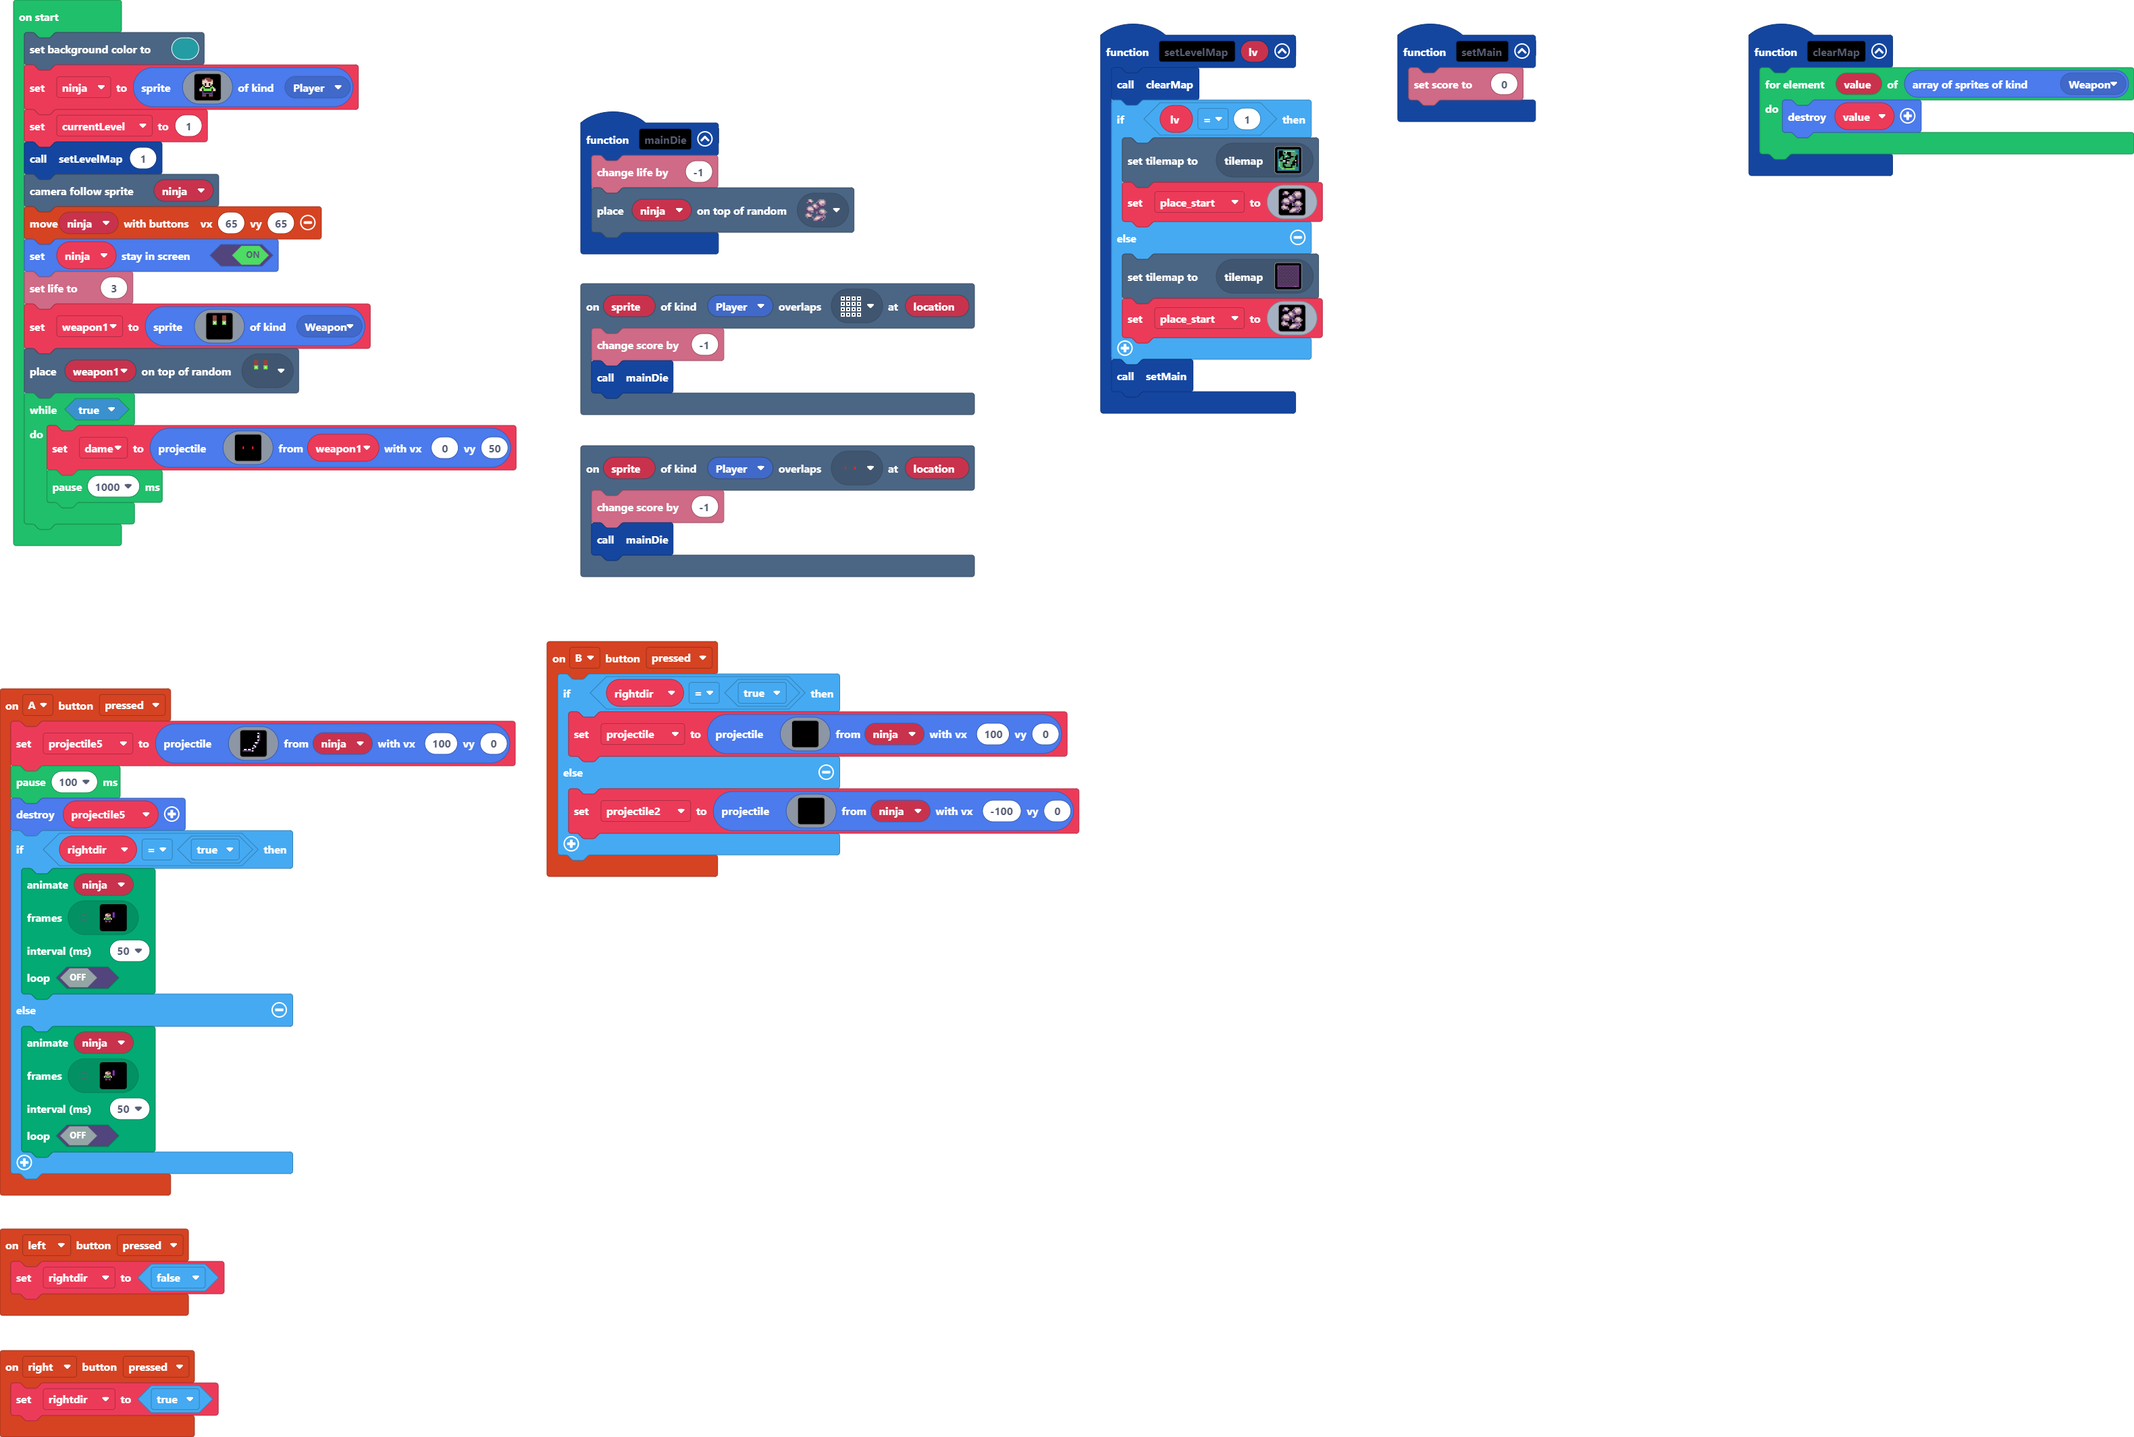
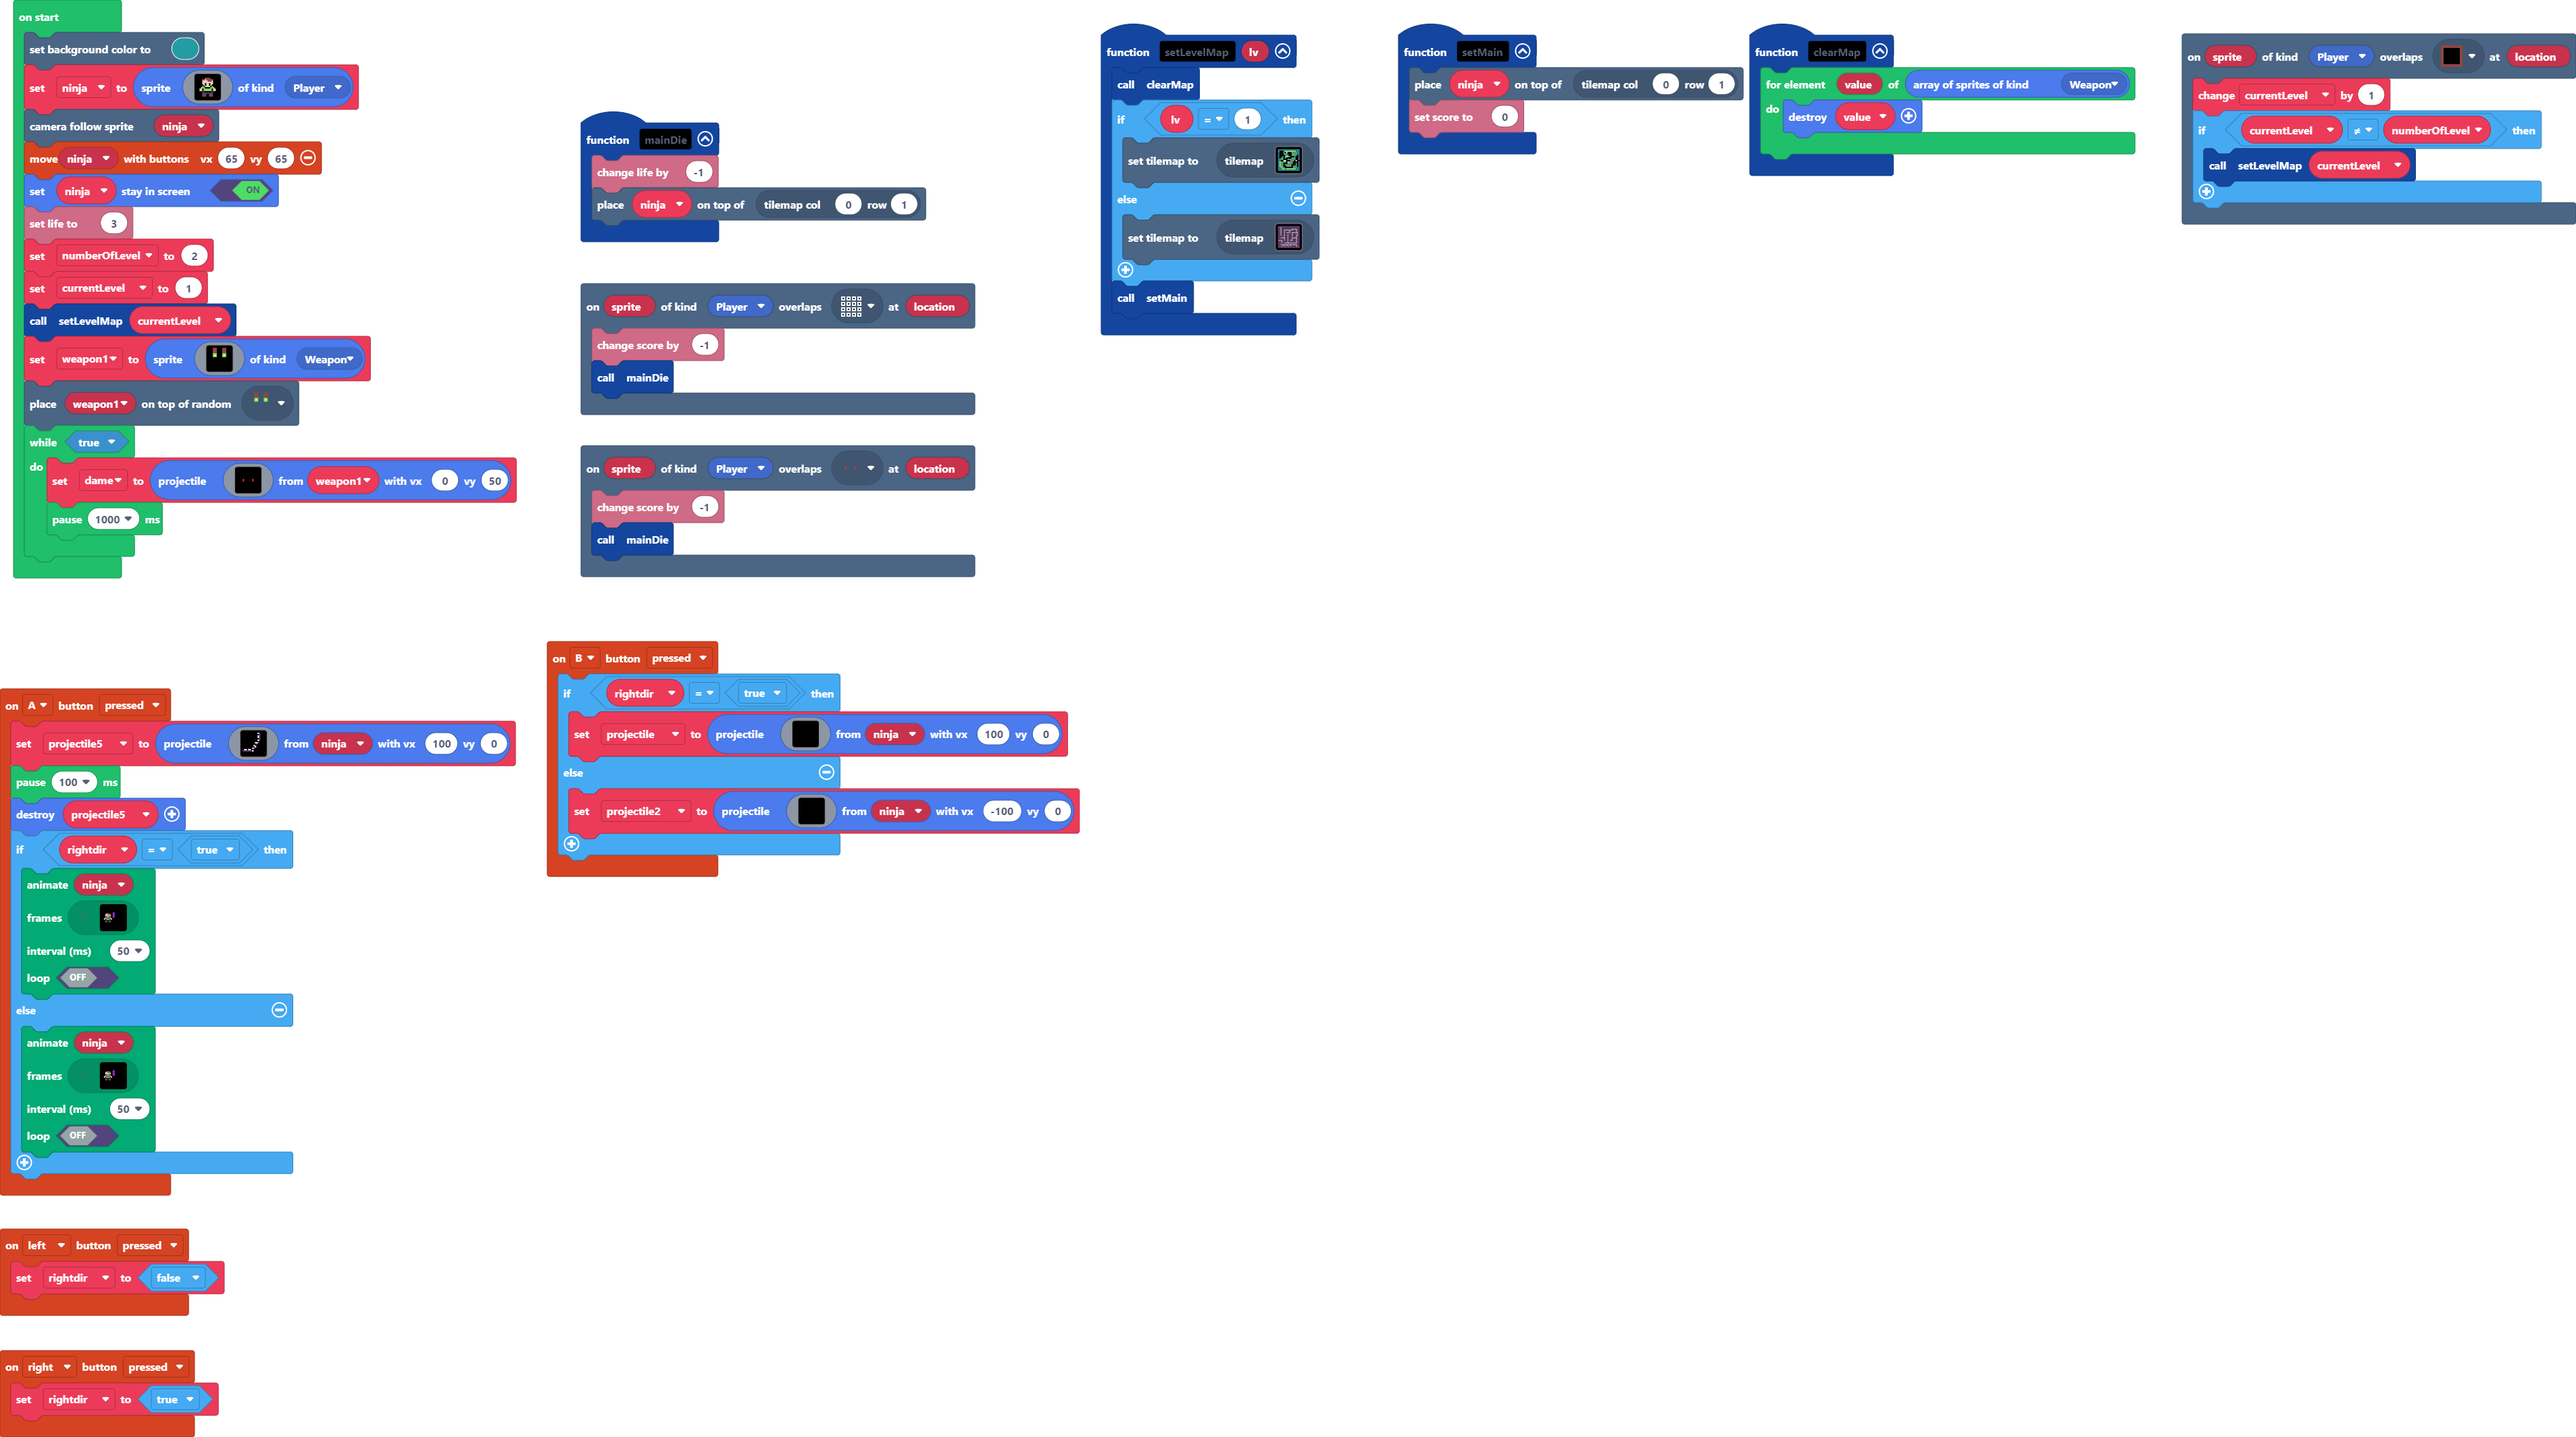
Update main.blocks, main.ts, tilemap.g.jres, tilemap.g.ts

Changed region(s): [[0.0, 0.0, 1.0, 0.4032], [0.0, 0.4342, 0.5272, 1.0], [0.3722, 0.3722, 0.4652, 0.4032]]

diff --git a/tilemap.g.ts b/tilemap.g.ts
@@ -10,28 +10,13 @@ namespace myTiles {
     export const tile3 = image.ofBuffer(hex``);
     //% fixedInstance jres blockIdentity=images._tile
     export const tile4 = image.ofBuffer(hex``);
+    //% fixedInstance jres blockIdentity=images._tile
+    export const tile5 = image.ofBuffer(hex``);
+    //% fixedInstance jres blockIdentity=images._tile
+    export const tile6 = image.ofBuffer(hex``);
 
     helpers._registerFactory("tilemap", function(name: string) {
         switch(helpers.stringTrim(name)) {
-            case "map-demo":
[1 lines of base64/hex data omitted]
-2 2 2 2 2 2 2 2 2 2 2 2 2 2 2 2 
-. . . . 2 2 2 2 2 2 2 2 2 2 2 2 
-2 . . . 2 . . . . . 2 2 2 2 2 2 
-2 . . . 2 2 2 . . . 2 2 2 2 2 2 
-2 . . . . 2 2 2 . . 2 2 2 2 . 2 
-2 . . 2 . 2 . 2 2 . . . 2 . . 2 
-2 . 2 2 . 2 . . . . 2 2 2 . . 2 
-2 2 2 2 . . . 2 2 2 2 2 2 . . 2 
-2 2 . . . . . . . 2 2 . . . . . 
-2 2 2 2 2 2 . . 2 2 2 . . . . . 
-2 2 2 2 . . . 2 2 2 2 . . 2 . 2 
-2 2 2 2 . 2 2 2 2 2 . . . 2 . 2 
-2 2 2 2 . . 2 2 2 2 . 2 2 2 . 2 
-2 2 2 2 2 . . . . . . . . 2 2 2 
-2 2 2 2 2 2 2 2 2 2 2 2 2 2 2 2 
-2 2 2 2 2 2 2 2 2 2 2 2 2 2 2 2 
-`, [myTiles.transparency16,sprites.castle.tileGrass2,sprites.castle.tileGrass1,sprites.builtin.forestTiles0,sprites.swamp.swampTile1,sprites.swamp.swampTile0,sprites.swamp.swampTile2,sprites.castle.saplingPine,sprites.castle.shrub,sprites.castle.rock0,sprites.castle.rock2,sprites.dungeon.stairLarge,sprites.dungeon.purpleOuterWest2,sprites.builtin.forestTiles1,sprites.builtin.forestTiles3,sprites.builtin.forestTiles2,myTiles.tile1,myTiles.tile2], TileScale.Sixteen);
             case "level2":
             case "level2":return tiles.createTilemap(hex`1000100000000000000000000000000000000000000000000000000000000000000000000000000000000000000000000000000000000000000000000000000000000000000000000000000000000000000000000000000000000000000000000000000000000000000000000000000000000000000000000000000000000000000000000000000000000000000000000000000000000000000000000000000000000000000000000000000000000000000000000000000000000000000000000000000000000000000000000000000000000000000000000000000000000000000000000000000000000000000000000000000000000000000000000000000000000000`, img`
 . . . . . . . . . . . . . . . . 
@@ -70,34 +55,6 @@ namespace myTiles {
 . . . . . . . . . . . . . . . . 
 . . . . . . . . . . . . . . . . 
 `, [myTiles.transparency16], TileScale.Sixteen);
-            case "tilemap1":
[1 lines of base64/hex data omitted]
-2222222222222222222222222
-2.......................2
-........................2
-........................2
-2.......................2
-2.......................2
-2.......................2
-2.......................2
-2.......................2
-2.......................2
-2.......................2
-2.......................2
-2.......................2
-2.......................2
-2.......................2
-2.......................2
-2.......................2
-2.......................2
-2.......................2
-2.......................2
-2.......................2
-2.......................2
-2.......................2
-2.......................2
-22222222222222222222..222
-`, [myTiles.transparency16,sprites.dungeon.darkGroundNorthWest0,sprites.dungeon.purpleOuterNorthWest,sprites.dungeon.purpleOuterNorth0,sprites.dungeon.purpleOuterNorthEast,sprites.dungeon.purpleOuterEast0,sprites.dungeon.purpleOuterSouthWest,sprites.dungeon.purpleOuterSouth0,sprites.dungeon.purpleOuterSouthEast,sprites.dungeon.purpleOuterWest1,sprites.dungeon.purpleOuterWest2,sprites.dungeon.stairWest,sprites.dungeon.stairSouth,sprites.dungeon.purpleOuterSouth2,sprites.dungeon.darkGroundSouthWest0,sprites.dungeon.darkGroundWest,sprites.dungeon.darkGroundNorth,sprites.dungeon.darkGroundNorthEast0,sprites.dungeon.darkGroundSouthEast0,sprites.dungeon.darkGroundSouth,sprites.dungeon.darkGroundEast,sprites.dungeon.darkGroundCenter], TileScale.Sixteen);
             case "level4":
             case "level4":return tiles.createTilemap(hex`1000100000000000000000000000000000000000000000000000000000000000000000000000000000000000000000000000000000000000000000000000000000000000000000000000000000000000000000000000000000000000000000000000000000000000000000000000000000000000000000000000000000000000000000000000000000000000000000000000000000000000000000000000000000000000000000000000000000000000000000000000000000000000000000000000000000000000000000000000000000000000000000000000000000000000000000000000000000000000000000000000000000000000000000000000000000000000`, img`
 . . . . . . . . . . . . . . . . 
@@ -117,6 +74,72 @@ namespace myTiles {
 . . . . . . . . . . . . . . . . 
 . . . . . . . . . . . . . . . . 
 `, [myTiles.transparency16], TileScale.Sixteen);
+            case "level5":
+            case "level5":return tiles.createTilemap(hex`1000100000000000000000000000000000000000000000000000000000000000000000000000000000000000000000000000000000000000000000000000000000000000000000000000000000000000000000000000000000000000000000000000000000000000000000000000000000000000000000000000000000000000000000000000000000000000000000000000000000000000000000000000000000000000000000000000000000000000000000000000000000000000000000000000000000000000000000000000000000000000000000000000000000000000000000000000000000000000000000000000000000000000000000000000000000000000`, img`
+. . . . . . . . . . . . . . . . 
+. . . . . . . . . . . . . . . . 
+. . . . . . . . . . . . . . . . 
+. . . . . . . . . . . . . . . . 
+. . . . . . . . . . . . . . . . 
+. . . . . . . . . . . . . . . . 
+. . . . . . . . . . . . . . . . 
+. . . . . . . . . . . . . . . . 
+. . . . . . . . . . . . . . . . 
+. . . . . . . . . . . . . . . . 
+. . . . . . . . . . . . . . . . 
+. . . . . . . . . . . . . . . . 
+. . . . . . . . . . . . . . . . 
+. . . . . . . . . . . . . . . . 
+. . . . . . . . . . . . . . . . 
+. . . . . . . . . . . . . . . . 
+`, [myTiles.transparency16], TileScale.Sixteen);
+            case "tilemap1":
[1 lines of base64/hex data omitted]
+2222222222222222222222222
+...2....................2
+2..2....................2
+2..2............222222..2
+2..2...2222222222....2..2
+2..2...2.....2.......2..2
+2..2...2.....2.......2..2
+2..2...2..2222..2222222.2
+2..2...2........2.....2.2
+2..2...2...2....2.....2.2
+2..2...2...2....2....22.2
+2......2...2....2....2..2
+2......2...2.........2..2
+2..22222...2....222222..2
+2......2...2....2....2..2
+2......2...2....2....2..2
+22222..2...2..222....2..2
+2...2......2.........2..2
+2...2......2.........2..2
+2...2..222222222222222..2
+2.......................2
+2..2222222222222222222..2
+2....................2..2
+2....................2..2
+22222222222222222222.2222
+`, [myTiles.transparency16,sprites.dungeon.darkGroundNorthWest0,sprites.dungeon.purpleOuterNorthWest,sprites.dungeon.purpleOuterNorth0,sprites.dungeon.purpleOuterNorthEast,sprites.dungeon.purpleOuterEast0,sprites.dungeon.purpleOuterSouthWest,sprites.dungeon.purpleOuterSouth0,sprites.dungeon.purpleOuterSouthEast,sprites.dungeon.purpleOuterWest1,sprites.dungeon.purpleOuterWest2,sprites.dungeon.stairWest,sprites.dungeon.purpleOuterSouth2,sprites.dungeon.darkGroundSouthWest0,sprites.dungeon.darkGroundWest,sprites.dungeon.darkGroundNorth,sprites.dungeon.darkGroundNorthEast0,sprites.dungeon.darkGroundSouthEast0,sprites.dungeon.darkGroundSouth,sprites.dungeon.darkGroundEast,sprites.dungeon.darkGroundCenter,myTiles.tile1,myTiles.tile5,sprites.dungeon.purpleOuterSouth1,sprites.dungeon.floorLight0,sprites.dungeon.darkGroundSouthWest1], TileScale.Sixteen);
+            case "map-demo":
[1 lines of base64/hex data omitted]
+2 2 2 2 2 2 2 2 2 2 2 2 2 2 2 2 
+. . . . 2 2 2 2 2 2 2 2 2 2 2 2 
+2 . . . 2 . . . . . 2 2 2 2 2 2 
+2 . . . 2 2 2 . . . 2 2 2 2 2 2 
+2 . . . . 2 2 2 . . 2 2 2 2 . 2 
+2 . . 2 . 2 . 2 2 . . . 2 . . 2 
+2 . 2 2 . 2 . . . . 2 2 2 . . 2 
+2 2 2 2 . . . 2 2 2 2 2 2 . . 2 
+2 2 . . . . . . . 2 2 . . . . . 
+2 2 2 2 2 2 . . 2 2 2 . . . . 2 
+2 2 2 2 . . . 2 2 2 2 . . 2 . 2 
+2 2 2 2 . 2 2 2 2 2 . . . 2 . 2 
+2 2 2 2 . . 2 2 2 2 . 2 2 2 . 2 
+2 2 2 2 2 . . . . . . . . 2 2 2 
+2 2 2 2 2 2 2 2 2 2 2 2 2 2 2 2 
+2 2 2 2 2 2 2 2 2 2 2 2 2 2 2 2 
+`, [myTiles.transparency16,sprites.castle.tileGrass2,sprites.castle.tileGrass1,sprites.builtin.forestTiles0,sprites.swamp.swampTile1,sprites.swamp.swampTile0,sprites.swamp.swampTile2,sprites.castle.saplingPine,sprites.castle.shrub,sprites.castle.rock0,sprites.castle.rock2,sprites.dungeon.stairLarge,sprites.dungeon.purpleOuterWest2,sprites.builtin.forestTiles1,sprites.builtin.forestTiles3,sprites.builtin.forestTiles2,myTiles.tile1,myTiles.tile2,myTiles.tile5], TileScale.Sixteen);
         }
         return null;
     })
@@ -132,6 +155,10 @@ namespace myTiles {
             case "tile3":return tile3;
             case "myTile":
             case "tile4":return tile4;
+            case "myTile0":
+            case "tile5":return tile5;
+            case "trap0":
+            case "tile6":return tile6;
         }
         return null;
     })

diff --git a/main.ts b/main.ts
@@ -3,6 +3,12 @@ namespace SpriteKind {
     export const Weapon = SpriteKind.create()
     export const Start = SpriteKind.create()
 }
+scene.onOverlapTile(SpriteKind.Player, assets.tile`myTile0`, function (sprite, location) {
+    currentLevel += 1
+    if (currentLevel != numberOfLevel) {
+        setLevelMap(currentLevel)
+    }
+})
 controller.B.onEvent(ControllerButtonEvent.Pressed, function () {
     if (rightdir == true) {
         projectile = sprites.createProjectileFromSprite(assets.image`phi_tieu`, ninja, 100, 0)
@@ -51,11 +57,12 @@ controller.left.onEvent(ControllerButtonEvent.Pressed, function () {
     rightdir = false
 })
 function setMain () {
+    tiles.placeOnTile(ninja, tiles.getTileLocation(0, 1))
     info.setScore(0)
 }
 function mainDie () {
     info.changeLifeBy(-1)
-    tiles.placeOnRandomTile(ninja, sprites.castle.rock2)
+    tiles.placeOnTile(ninja, tiles.getTileLocation(0, 1))
 }
 controller.right.onEvent(ControllerButtonEvent.Pressed, function () {
     rightdir = true
@@ -64,44 +71,8 @@ function setLevelMap (lv: number) {
     clearMap()
     if (lv == 1) {
         tiles.setCurrentTilemap(tilemap`map-demo`)
-        place_start = img`
-            . . b d b . . . . . b b b b . . 
-            . c b d d b . . . b b d d d b . 
-            . b c c b . . . b c d d d d b . 
-            . . . . . . b b c c b d b b b . 
-            . . . . . b d d b c c b b b c . 
-            . . b b b c d d b b c c c c . . 
-            . b d d d b c b b c . . . . . . 
-            c b d d d d c c c c . b b b . . 
-            c c b b b b c c c . b d d d b . 
-            . c c c b b . . b c b b d d b b 
-            . b b . . . . . b c c b b b b . 
-            b d d b b . . . . . c c c b . . 
-            b b d d b c . . b b b b b b b . 
-            . b c c c b . b d d d b b c b . 
-            . . . . . . b d d d b c c b . . 
-            . . . . . . b b b c c c b . . . 
-            `
     } else {
         tiles.setCurrentTilemap(tilemap`tilemap1`)
-        place_start = img`
-            . . b d b . . . . . b b b b . . 
-            . c b d d b . . . b b d d d b . 
-            . b c c b . . . b c d d d d b . 
-            . . . . . . b b c c b d b b b . 
-            . . . . . b d d b c c b b b c . 
-            . . b b b c d d b b c c c c . . 
-            . b d d d b c b b c . . . . . . 
-            c b d d d d c c c c . b b b . . 
-            c c b b b b c c c . b d d d b . 
-            . c c c b b . . b c b b d d b b 
-            . b b . . . . . b c c b b b b . 
-            b d d b b . . . . . c c c b . . 
-            b b d d b c . . b b b b b b b . 
-            . b c c c b . b d d d b b c b . 
-            . . . . . . b d d d b c c b . . 
-            . . . . . . b b b c c c b . . . 
-            `
     }
     setMain()
 }
@@ -118,21 +89,23 @@ function clearMap () {
         value.destroy()
     }
 }
-let place_start: Image = null
 let projectile5: Sprite = null
 let projectile2: Sprite = null
 let projectile: Sprite = null
 let rightdir = false
 let dame: Sprite = null
+let currentLevel = 0
+let numberOfLevel = 0
 let ninja: Sprite = null
 scene.setBackgroundColor(6)
 ninja = sprites.create(assets.image`myImage1`, SpriteKind.Player)
-let currentLevel = 1
-setLevelMap(1)
 scene.cameraFollowSprite(ninja)
 controller.moveSprite(ninja, 65, 65)
 ninja.setStayInScreen(true)
 info.setLife(3)
+numberOfLevel = 2
+currentLevel = 1
+setLevelMap(currentLevel)
 let weapon1 = sprites.create(assets.image`weapon1`, SpriteKind.Weapon)
 tiles.placeOnRandomTile(weapon1, assets.tile`weapon1`)
 while (true) {
